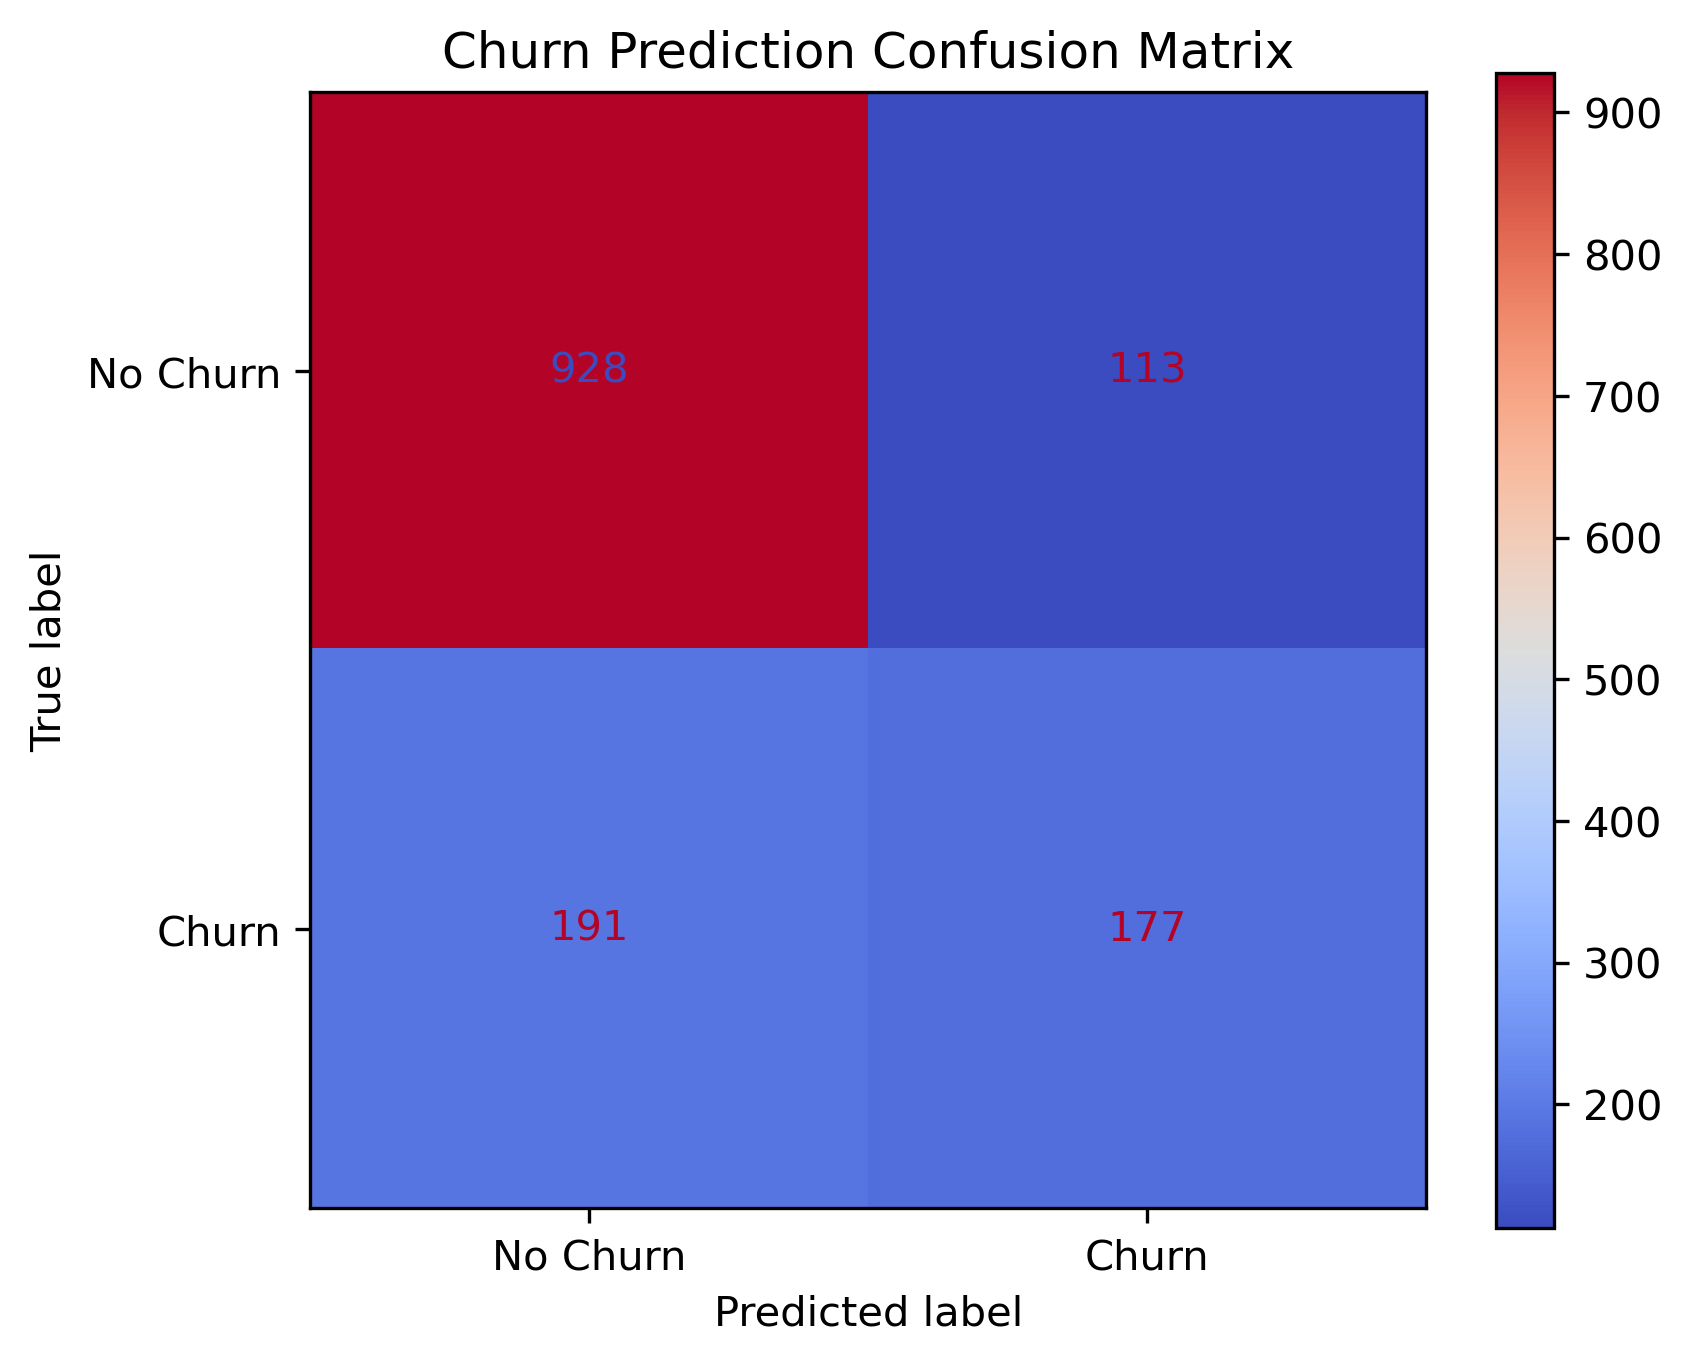
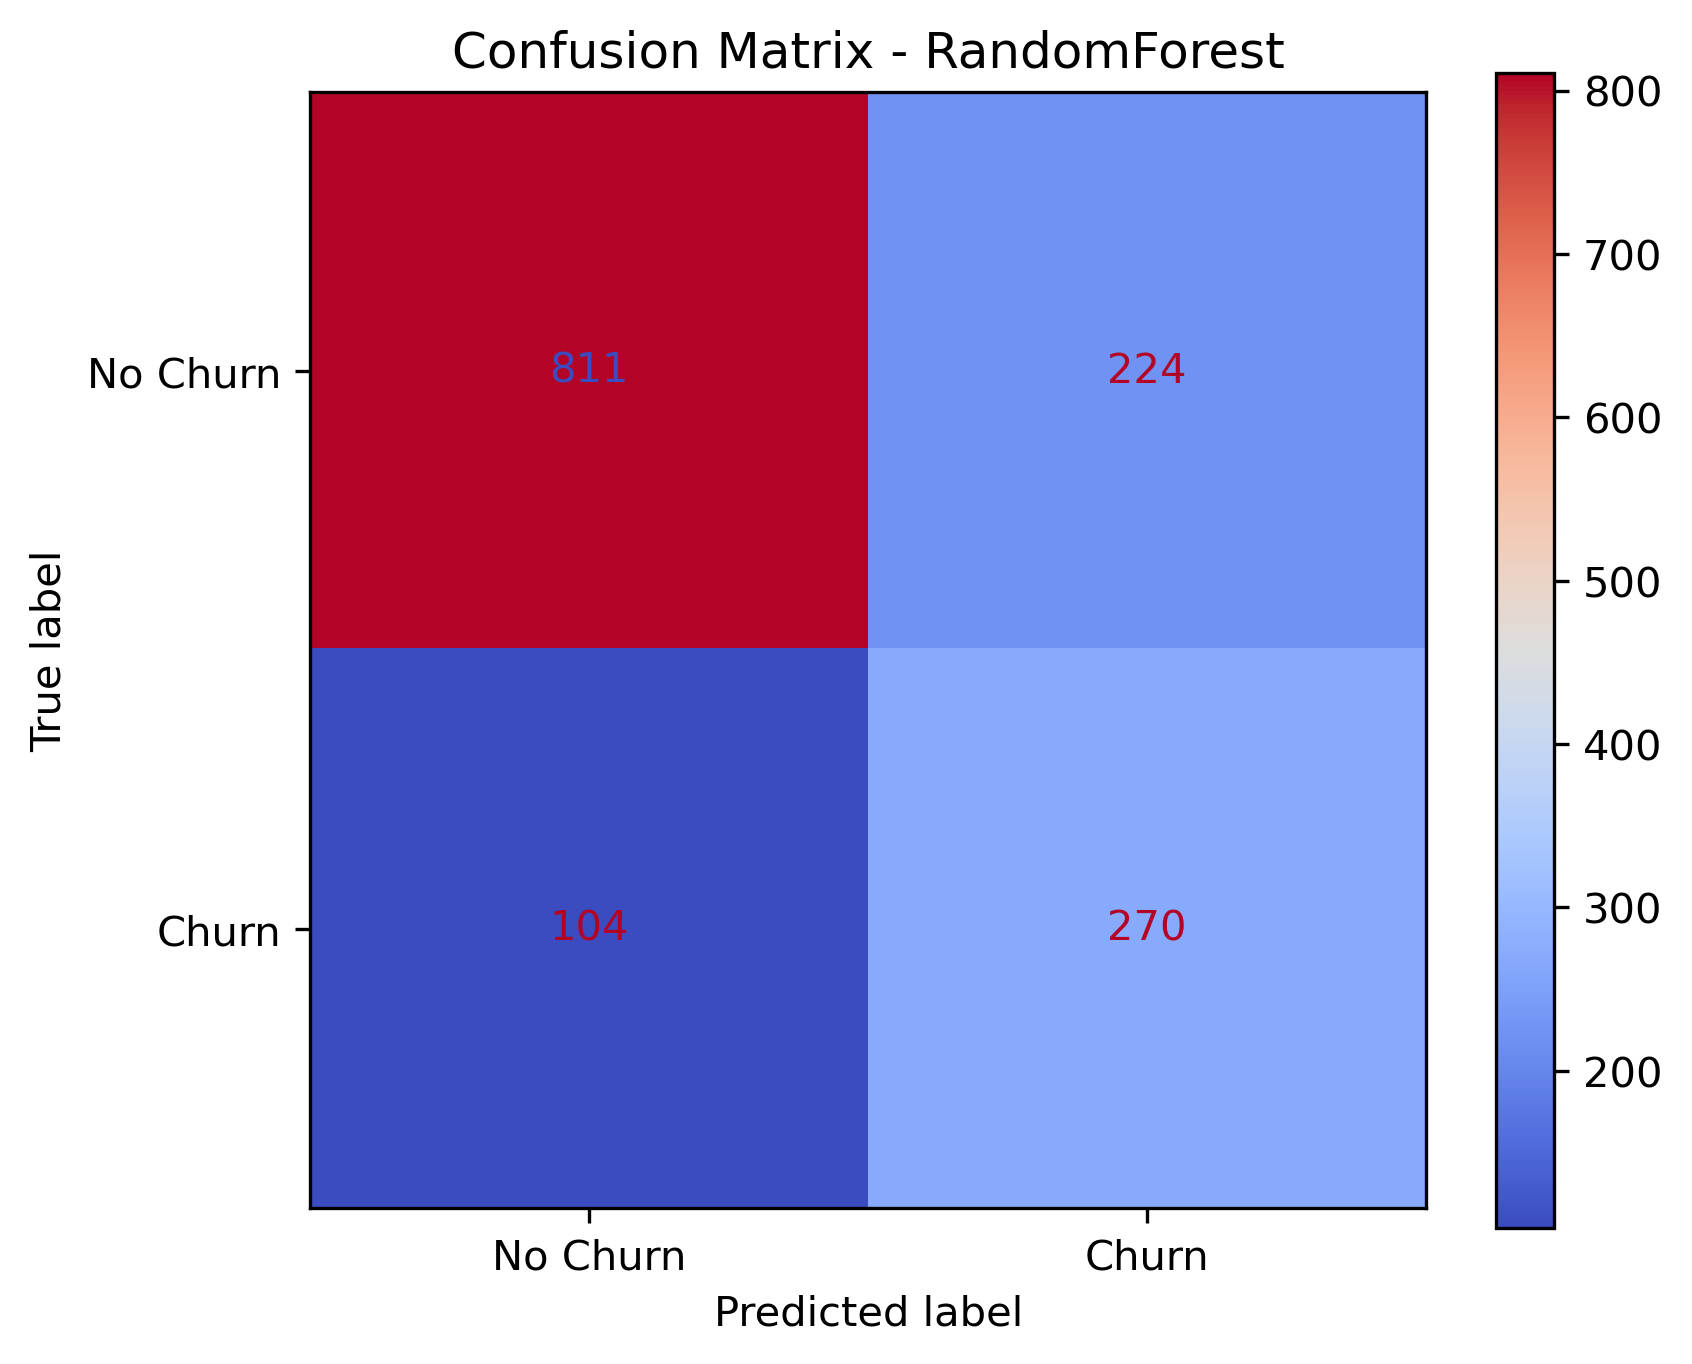
Implemented state-of-the-art ML pipeline: XGBoost, SMOTE, GridSearchCV, One-Hot Encoding

diff --git a/train.py b/train.py
@@ -3,98 +3,178 @@ import pandas as pd
 import numpy as np
 import matplotlib.pyplot as plt
 import seaborn as sns
-from sklearn.model_selection import train_test_split
-from sklearn.preprocessing import LabelEncoder, StandardScaler
+
+from sklearn.model_selection import train_test_split, RandomizedSearchCV
+from sklearn.preprocessing import StandardScaler, OneHotEncoder
+from sklearn.compose import ColumnTransformer
+from sklearn.metrics import accuracy_score, confusion_matrix, ConfusionMatrixDisplay, classification_report, roc_auc_score, roc_curve
 from sklearn.ensemble import RandomForestClassifier
-from sklearn.metrics import accuracy_score, confusion_matrix, ConfusionMatrixDisplay
+from xgboost import XGBClassifier
+from imblearn.pipeline import Pipeline as ImbPipeline
+from imblearn.over_sampling import SMOTE
 
 def load_and_preprocess_data(filepath):
-    """
-    Loads dataset and performs basic cleaning:
-    - Coerces TotalCharges to numeric
-    - Imputes missing values with median
-    """
     print(f"[*] Loading dataset from: {filepath}")
     if not os.path.exists(filepath):
         raise FileNotFoundError(f"Dataset not found at {filepath}")
         
     df = pd.read_csv(filepath)
     
+    print("[*] Preprocessing dataset...")
     # Clean TotalCharges column
-    print("[*] Preprocessing TotalCharges...")
     df['TotalCharges'] = pd.to_numeric(df['TotalCharges'], errors='coerce')
     median_val = df['TotalCharges'].median()
-    df['TotalCharges'].fillna(median_val, inplace=True)
+    df['TotalCharges'] = df['TotalCharges'].fillna(median_val)
     
     return df
 
-def encode_features(df):
-    """
-    Encodes categorical features using LabelEncoder
-    """
-    print("[*] Encoding categorical features...")
-    df_encoded = df.copy()
-    label_encoder = LabelEncoder()
-    
-    categorical_cols = [
-        'gender', 'Partner', 'Dependents', 'PhoneService', 'MultipleLines', 
-        'InternetService', 'OnlineSecurity', 'OnlineBackup', 'DeviceProtection', 
-        'TechSupport', 'StreamingTV', 'StreamingMovies', 'Contract', 
-        'PaperlessBilling', 'PaymentMethod', 'Churn'
-    ]
-    
-    for col in categorical_cols:
-        if col in df_encoded.columns:
-            df_encoded[col] = label_encoder.fit_transform(df_encoded[col])
-            
-    return df_encoded
-
 def train_and_evaluate(df):
-    """
-    Splits features/target, normalizes, trains Random Forest model, and evaluates accuracy
-    """
     print("[*] Splitting dataset into train/test (80/20)...")
-    # Separate features and target
+    
+    # Drop IDs and Target
     X = df.drop(['customerID', 'Churn'], axis=1, errors='ignore')
-    y = df['Churn']
+    # Map target
+    y = df['Churn'].map({'Yes': 1, 'No': 0})
     
-    X_train, X_test, y_train, y_test = train_test_split(X, y, test_size=0.2, random_state=0)
+    X_train, X_test, y_train, y_test = train_test_split(X, y, test_size=0.2, random_state=42, stratify=y)
     
-    # Scale features
-    print("[*] Scaling features using StandardScaler...")
-    scaler = StandardScaler()
-    X_train_scaled = scaler.fit_transform(X_train)
-    X_test_scaled = scaler.transform(X_test)
+    # Define categorical and numerical features
+    numeric_features = ['tenure', 'MonthlyCharges', 'TotalCharges']
+    categorical_features = [col for col in X.columns if col not in numeric_features]
     
-    # Initialize and train RandomForestClassifier
-    print("[*] Training RandomForestClassifier model...")
-    clf = RandomForestClassifier(random_state=0)
-    clf.fit(X_train_scaled, y_train)
+    # Create preprocessing steps
+    print("[*] Configuring preprocessing with OneHotEncoding and Selective Scaling...")
+    preprocessor = ColumnTransformer(
+        transformers=[
+            ('num', StandardScaler(), numeric_features),
+            ('cat', OneHotEncoder(drop='first', handle_unknown='ignore'), categorical_features)
+        ])
     
-    # Make predictions
-    y_pred = clf.predict(X_test_scaled)
+    # We will define two pipelines, one for RF, one for XGB
+    pipelines = {
+        'RandomForest': ImbPipeline([
+            ('preprocessor', preprocessor),
+            ('smote', SMOTE(random_state=42)),
+            ('classifier', RandomForestClassifier(random_state=42))
+        ]),
+        'XGBoost': ImbPipeline([
+            ('preprocessor', preprocessor),
+            ('smote', SMOTE(random_state=42)),
+            ('classifier', XGBClassifier(random_state=42, eval_metric='logloss'))
+        ])
+    }
     
-    # Calculate accuracy
-    accuracy = accuracy_score(y_test, y_pred)
-    print(f"[+] Model Accuracy: {accuracy:.4f}")
+    # Hyperparameters for RandomizedSearchCV
+    param_grids = {
+        'RandomForest': {
+            'classifier__n_estimators': [100, 200, 300],
+            'classifier__max_depth': [None, 10, 20, 30],
+            'classifier__min_samples_split': [2, 5, 10]
+        },
+        'XGBoost': {
+            'classifier__n_estimators': [100, 200, 300],
+            'classifier__learning_rate': [0.01, 0.05, 0.1, 0.2],
+            'classifier__max_depth': [3, 5, 7]
+        }
+    }
     
-    # Save Confusion Matrix plot
-    print("[*] Generating confusion matrix...")
-    cm = confusion_matrix(y_test, y_pred)
+    best_models = {}
+    
+    for model_name in pipelines.keys():
+        print(f"\n[*] Tuning and training {model_name}...")
+        search = RandomizedSearchCV(
+            pipelines[model_name], 
+            param_distributions=param_grids[model_name], 
+            n_iter=5, 
+            cv=3, 
+            scoring='roc_auc', 
+            random_state=42, 
+            n_jobs=-1
+        )
+        search.fit(X_train, y_train)
+        best_models[model_name] = search.best_estimator_
+        print(f"[+] Best params for {model_name}: {search.best_params_}")
+    
+    print("\n[*] Evaluating models...")
+    os.makedirs('images', exist_ok=True)
+    
+    plt.figure(figsize=(8, 6))
+    
+    best_roc_auc = 0
+    best_model_name = ""
+    best_y_pred = None
+    
+    for model_name, model in best_models.items():
+        y_pred = model.predict(X_test)
+        y_proba = model.predict_proba(X_test)[:, 1]
+        
+        acc = accuracy_score(y_test, y_pred)
+        roc = roc_auc_score(y_test, y_proba)
+        
+        print(f"\n--- {model_name} Performance ---")
+        print(f"Accuracy: {acc:.4f}")
+        print(f"ROC-AUC:  {roc:.4f}")
+        print(classification_report(y_test, y_pred, target_names=["No Churn", "Churn"]))
+        
+        if roc > best_roc_auc:
+            best_roc_auc = roc
+            best_model_name = model_name
+            best_y_pred = y_pred
+            
+        # Plot ROC
+        fpr, tpr, _ = roc_curve(y_test, y_proba)
+        plt.plot(fpr, tpr, label=f'{model_name} (AUC = {roc:.3f})')
+        
+    # Finalize ROC plot
+    plt.plot([0, 1], [0, 1], 'k--', label='Random Guess')
+    plt.xlabel('False Positive Rate')
+    plt.ylabel('True Positive Rate')
+    plt.title('ROC Curves')
+    plt.legend()
+    roc_path = os.path.join('images', 'roc_curves.png')
+    plt.savefig(roc_path, dpi=300, bbox_inches='tight')
+    plt.close()
+    print(f"[+] Saved ROC curves plot to: {roc_path}")
+    
+    # Save Confusion Matrix for the best model
+    print(f"\n[*] Generating confusion matrix for best model ({best_model_name})...")
+    cm = confusion_matrix(y_test, best_y_pred)
     disp = ConfusionMatrixDisplay(confusion_matrix=cm, display_labels=["No Churn", "Churn"])
     
     plt.figure(figsize=(6, 5))
     disp.plot(cmap="coolwarm", ax=plt.gca())
-    plt.title('Churn Prediction Confusion Matrix')
-    
-    # Ensure output folder for images exists
-    os.makedirs('images', exist_ok=True)
+    plt.title(f'Confusion Matrix - {best_model_name}')
     plot_path = os.path.join('images', 'confusion_matrix.png')
     plt.savefig(plot_path, dpi=300, bbox_inches='tight')
     plt.close()
-    print(f"[+] Saved confusion matrix plot to: {plot_path}")
+    print(f"[+] Saved best model confusion matrix plot to: {plot_path}")
     
-    return accuracy
+    # Plot Feature Importances for Best Model
+    try:
+        best_pipeline = best_models[best_model_name]
+        classifier = best_pipeline.named_steps['classifier']
+        
+        # Get feature names from ColumnTransformer
+        preprocessor = best_pipeline.named_steps['preprocessor']
+        ohe_features = preprocessor.named_transformers_['cat'].get_feature_names_out(categorical_features)
+        all_features = numeric_features + list(ohe_features)
+        
+        importances = classifier.feature_importances_
+        indices = np.argsort(importances)[::-1][:15] # Top 15
+        
+        plt.figure(figsize=(10, 6))
+        plt.title(f"Top 15 Feature Importances ({best_model_name})")
+        plt.barh(range(15), importances[indices][:15][::-1], color="skyblue", align="center")
+        plt.yticks(range(15), [all_features[i] for i in indices][:15][::-1])
+        plt.xlabel("Relative Importance")
+        feature_path = os.path.join('images', 'feature_importance.png')
+        plt.savefig(feature_path, dpi=300, bbox_inches='tight')
+        plt.close()
+        print(f"[+] Saved feature importances plot to: {feature_path}")
+    except Exception as e:
+        print(f"[-] Could not plot feature importance: {e}")
+        
+    return best_model_name, best_roc_auc
 
 if __name__ == '__main__':
     # Local path of dataset in repo folder
@@ -106,8 +186,7 @@ if __name__ == '__main__':
         
     try:
         data = load_and_preprocess_data(data_path)
-        encoded_data = encode_features(data)
-        train_and_evaluate(encoded_data)
-        print("[+] Churn Prediction Pipeline executed successfully!")
+        best_model_name, best_roc = train_and_evaluate(data)
+        print(f"\n[+] Churn Prediction Pipeline executed successfully! Best Model: {best_model_name} (AUC: {best_roc:.4f})")
     except Exception as e:
         print(f"[-] Error: {e}")

diff --git a/README.md b/README.md
@@ -5,9 +5,9 @@ Predicting telecom customer churn using machine learning classifiers built on Sc
 ---
 
 ## 📋 Overview
-Customer churn is one of the most critical metrics for telecom providers. Retaining existing customers is significantly more cost-effective than acquiring new ones. This repository implements an end-to-end machine learning pipeline to preprocess customer data, perform exploratory data analysis, and train a Random Forest model to predict churn.
+Customer churn is one of the most critical metrics for telecom providers. Retaining existing customers is significantly more cost-effective than acquiring new ones. This repository implements an end-to-end machine learning pipeline to preprocess customer data, perform exploratory data analysis, and train and tune multiple models (Random Forest and XGBoost) to predict churn.
 
-The project currently achieves a **79% prediction accuracy** using a Random Forest Classifier on test data.
+The project incorporates best practices like **One-Hot Encoding**, **Selective Feature Scaling**, and **SMOTE** (Synthetic Minority Over-sampling Technique) to address class imbalance. Using `RandomizedSearchCV`, the pipeline automatically finds the best hyperparameters, achieving high predictive power with robust ROC-AUC scores.
 
 ---
 
@@ -16,8 +16,12 @@ The project currently achieves a **79% prediction accuracy** using a Random Fore
 ├── data/
 │   └── Telco-Customer-Churn.csv   # Dataset (to be placed here)
 ├── images/
-│   └── confusion_matrix.png       # Saved confusion matrix evaluation plot
+│   ├── confusion_matrix.png       # Saved confusion matrix evaluation plot
+│   ├── roc_curves.png             # Saved ROC curves plot
+│   └── feature_importance.png     # Saved top 15 feature importances plot
 ├── churn_prediction_notebook.ipynb # Interactive Jupyter Notebook analysis
+├── generate_pivot.py               # Generates markdown pivot tables of churn rate
+├── churn_rate_pivot_table.md       # Exported pivot table
 ├── train.py                        # Clean, modular training script
 ├── requirements.txt                # Project dependencies
 └── .gitignore                      # Git exclusion rules
@@ -75,23 +79,29 @@ Key feature groups:
 ## 📈 Preprocessing and Modeling Pipeline
 1. **Numeric Coercion**: Convert `TotalCharges` to float, coercing empty spaces to `NaN`.
 2. **Imputation**: Missing values in `TotalCharges` are filled with the column's median.
-3. **Encoding**: Categorical string features are encoded into numerical values using `LabelEncoder`.
+3. **Column Transformation**: 
+   - **Continuous features** (`tenure`, `MonthlyCharges`, `TotalCharges`) are standard-scaled.
+   - **Categorical features** are transformed using `OneHotEncoder`.
 4. **Data Splitting**: Split into 80% training / 20% test partitions.
-5. **Standard Scaling**: Continuous feature columns are standard-scaled to ensure equal variance.
-6. **Training**: A Scikit-Learn `RandomForestClassifier` is trained on training data.
-7. **Evaluation**: Predictions are checked against test targets using Accuracy and Confusion Matrix metrics.
+5. **Class Imbalance Management**: The training pipeline incorporates **SMOTE** (via `imblearn`) to artificially balance the minority class (Churn=Yes) during training.
+6. **Training & Tuning**: Uses `RandomizedSearchCV` to optimize both a `RandomForestClassifier` and an `XGBClassifier`.
+7. **Evaluation**: Compares models based on ROC-AUC scores, plots ROC curves, confusion matrix, and feature importances for the best model.
 
 ---
 
 ## 📌 Model Evaluation Results
-* **Accuracy Score**: `79.0%`
-* **Confusion Matrix**:
+Upon running the training pipeline, the script outputs the performance (Accuracy, Classification Report, and ROC-AUC score) for both tuned models and saves visualizations:
+* **Confusion Matrix**: Visualizes True/False Positives and Negatives.
+* **ROC Curve**: Compares the True Positive Rate against the False Positive Rate.
+* **Feature Importance**: Highlights the top 15 most important factors driving customer churn.
 
 ![Confusion Matrix](images/confusion_matrix.png)
 
 ---
 
-## 💡 Planned Enhancements
-* **One-Hot Encoding**: Replace ordinal LabelEncoding on nominal columns to improve generalization.
-* **Class Imbalance Management**: Utilize SMOTE oversampling or incorporate class weights (`class_weight="balanced"`) to boost true-positive rates.
-* **Hyperparameter Tuning**: Run RandomizedSearchCV to optimize Random Forest estimators.
+## 💡 Recent Enhancements
+* ✅ **One-Hot Encoding**: Replaced ordinal LabelEncoding with robust OneHotEncoding.
+* ✅ **Class Imbalance Management**: Implemented SMOTE oversampling.
+* ✅ **Selective Scaling**: Only continuous columns are standard scaled now.
+* ✅ **Hyperparameter Tuning**: Integrated `RandomizedSearchCV` for Random Forest and XGBoost to automatically select the best model.
+* ✅ **Pivot Table Generation**: Added `generate_pivot.py` to extract insights on Churn rate by Contract and Internet Service.